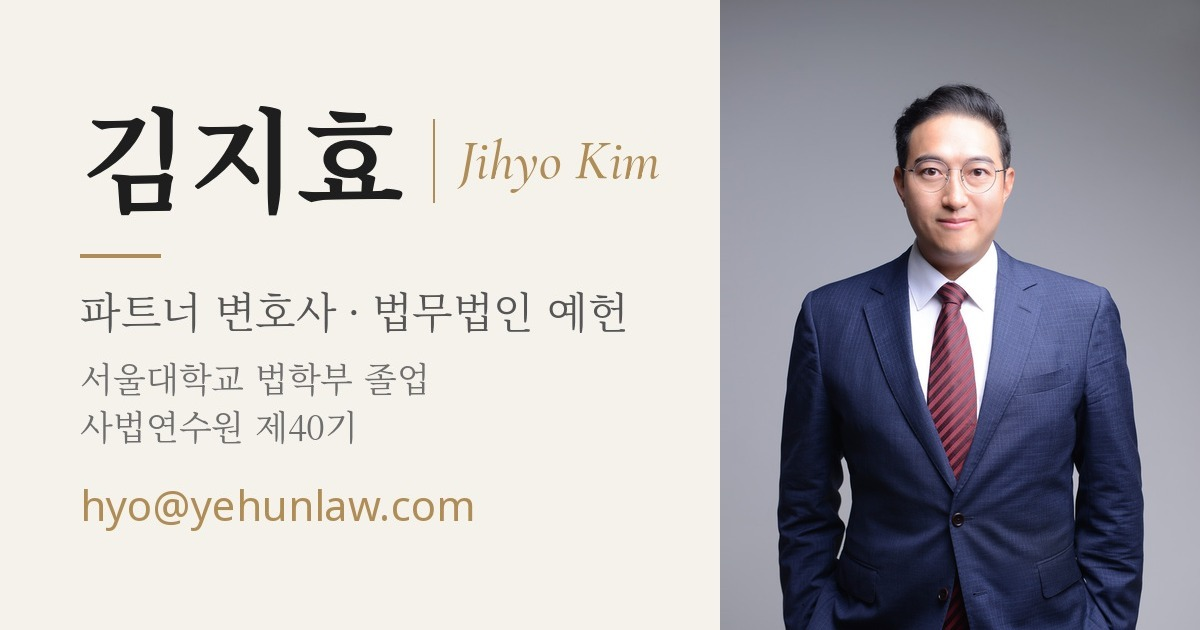
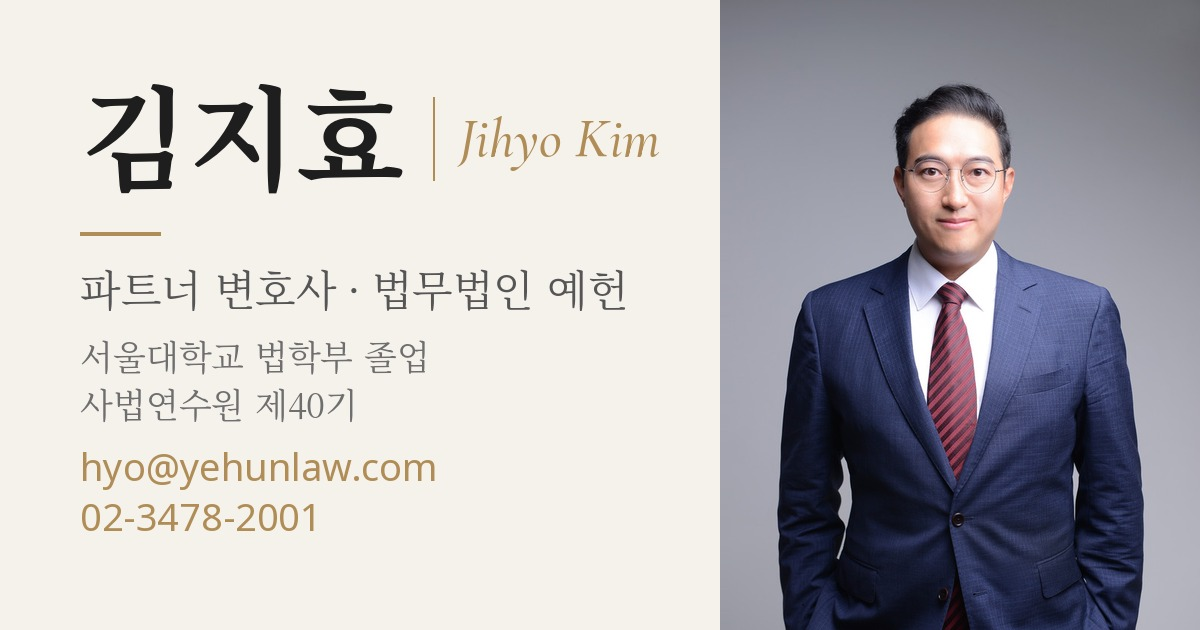
og-image: 회사 전화번호 추가 (#12)

Changed region(s): [[0.0617, 0.1206, 0.5242, 0.8444], [0.37, 0.181, 0.555, 0.3016]]

diff --git a/index.html b/index.html
@@ -18,7 +18,7 @@
 <meta property="og:title" content="김지효 변호사 | Attorney Kim Ji-hyo">
 <meta property="og:description" content="법무법인 예헌 파트너 변호사. 건설·부동산, 산업안전(중대재해), 인사·노무, 공정거래·하도급, 기업자문·M&A.">
 <meta property="og:url" content="https://www.hyotime.com/">
-<meta property="og:image" content="https://www.hyotime.com/og-image.jpg?v=20261120c">
+<meta property="og:image" content="https://www.hyotime.com/og-image.jpg?v=20261120d">
 <meta property="og:image:type" content="image/jpeg">
 <meta property="og:image:width" content="1200">
 <meta property="og:image:height" content="630">
@@ -28,7 +28,7 @@
 <meta name="twitter:card" content="summary_large_image">
 <meta name="twitter:title" content="김지효 변호사 | Attorney Kim Ji-hyo">
 <meta name="twitter:description" content="법무법인 예헌 파트너 변호사. 건설·부동산, 산업안전(중대재해), 인사·노무, 공정거래·하도급, 기업자문·M&A.">
-<meta name="twitter:image" content="https://www.hyotime.com/og-image.jpg?v=20261120c">
+<meta name="twitter:image" content="https://www.hyotime.com/og-image.jpg?v=20261120d">
 <meta name="twitter:image:alt" content="김지효 변호사">
 
 <!-- 아이콘 -->
